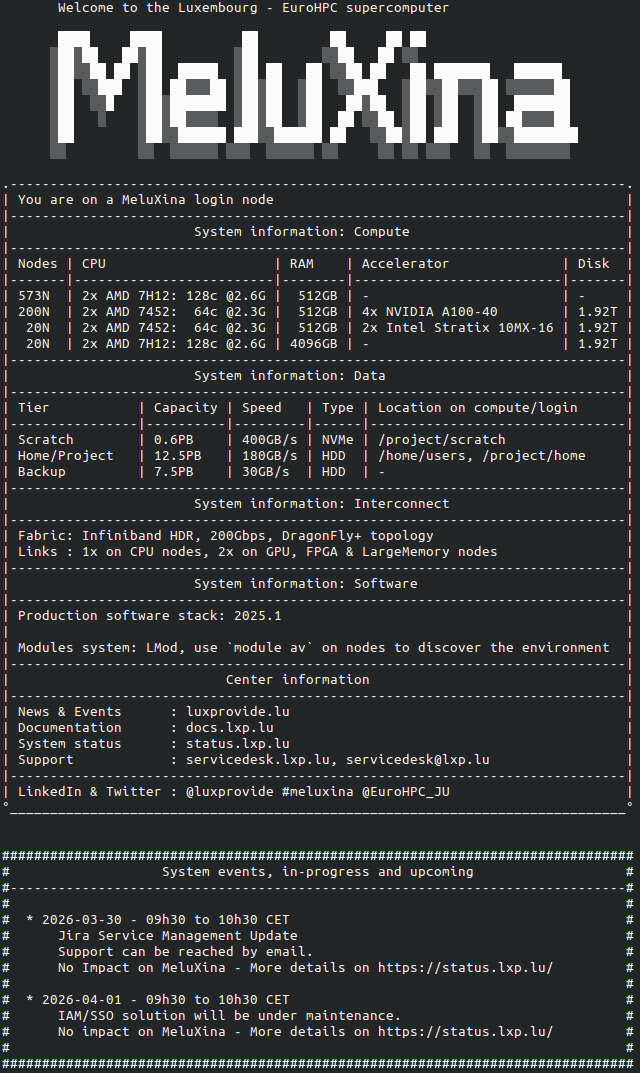
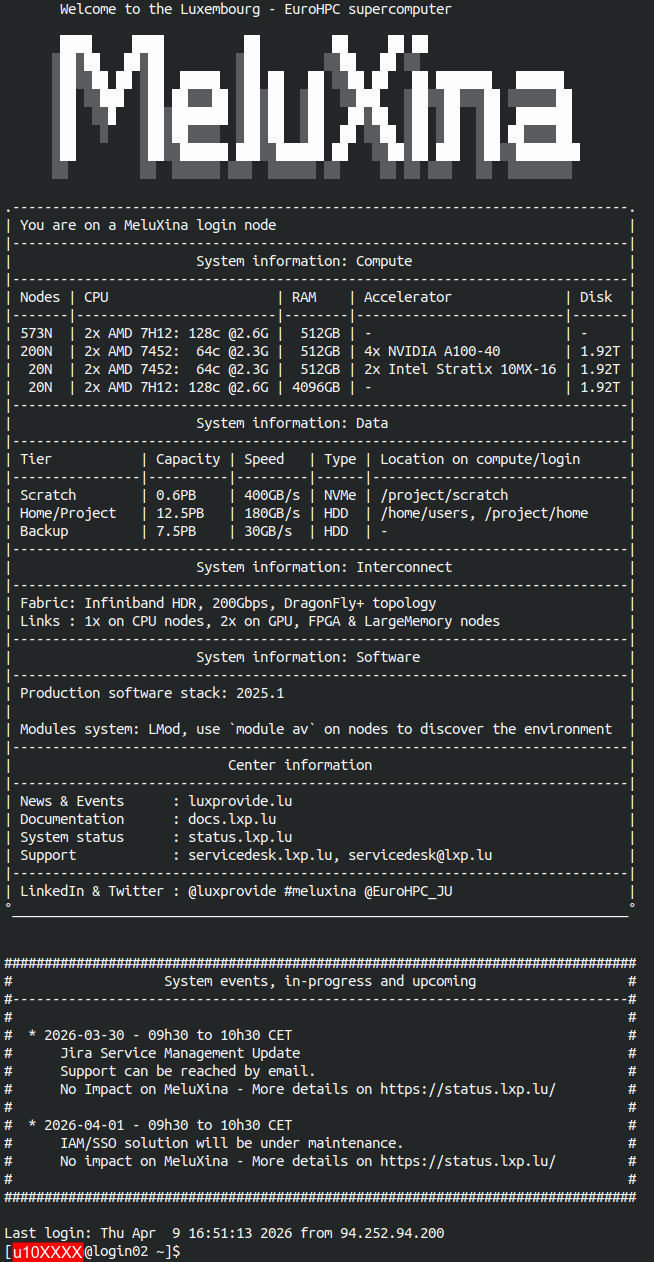
update

Changed region(s): [[0.0, 0.0, 1.0, 1.0]]

diff --git a/docs/connections_meluxina.md b/docs/connections_meluxina.md
@@ -9,14 +9,14 @@ It goes to three main steps:
 2. [**Command line** access using SSH](#command-line-access-using-ssh-key)
 3. [**Web-portal** access](#web-portal-access)
 
-![Command Line](images/command_line_interface.png){ width="560"}
-![Web-portal](images/webportal_interface.png){ width="560"}
+![Command Line](images/command_line_interface.png){ width="460"}
+![Web-portal](images/webportal_interface.png){ width="460"}
 
 ---
 
 ##  Setup your service desk account
 
-![Onboarding email](images/onboarding_email.png){ width="720" align="right" }
+![Onboarding email](images/onboarding_email.png){ width="520" align="right" }
 
 If this the first time that you're accessing MeluXina, you've received an email with your login information.
 This email (example on the right) includes two important information to setup your account:
@@ -114,7 +114,7 @@ If the connection is successful, you should see the MeluXina welcome banner:
 
 ![MeluXina welcome banner](images/meluxina_banner.png){: .center}
 
-The shell prompt (last line on the terminal) should indicate that you're correctly connected to the MeluXina login node.
+The shell prompt (last line on the terminal) should indicate that you're correctly connected to the MeluXina login  node (`login02` or `login03`) as the user `u10XXXX`.
 
 
 ??? failure "Failing to connect?"
